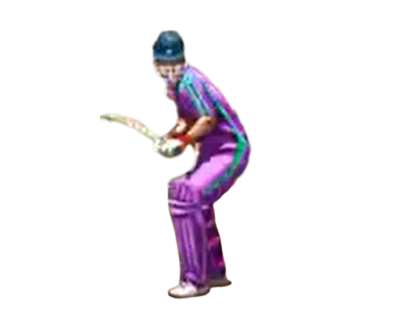
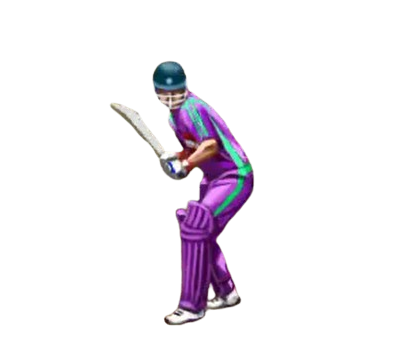
big updates

Changed region(s): [[0.24, 0.0938, 0.66, 0.9375]]

diff --git a/main.py b/main.py
@@ -12,21 +12,28 @@ pygame.init()
 # variables
 runs_scored = 0
 flag = 0
+timing = 3
 
 def check_runs_scored():
-    if BATSMAN.delivery_played:
-        dr = abs(t_ball_released-t_player_input)
-        if dr <= 20:
-            global runs_scored
-            runs_scored = 6
-        elif dr <= 25:
-            runs_scored = 4
-        else:
-            global flag
-            if not flag: 
-                runs_scored = random.choice([1,1,1,2,2,3])
-                flag = 0
-
+    dr = abs(BOWLER.t_ball_released-BATSMAN.t_player_input)
+    if 80 <= dr <= 100:
+        global runs_scored
+        runs_scored = 6
+        BATSMAN.shot = "loft"
+        global timing
+        timing = 3
+    elif 60 <= dr <= 120:
+        runs_scored = 4
+        BATSMAN.shot = "stroke"
+        timing = 2
+    else:
+        BATSMAN.shot = "stroke"
+        timing = 1
+        global flag
+        if not flag: 
+            runs_scored = random.choice([1,1,1,2,2,3])
+            flag = 0
+    
 # game starts when it is True
 game_active = True
 
@@ -36,9 +43,10 @@ clock = pygame.time.Clock()
 pygame.display.set_caption("Cricket 2023")
 
 # adding the sprites
-batsman_group = pygame.sprite.Group()
-batsman_group.add(BATSMAN())
-batsman_group.add(NON_STRIKER())
+batsman = pygame.sprite.GroupSingle()
+batsman.add(BATSMAN())
+non_striker = pygame.sprite.GroupSingle()
+non_striker.add(NON_STRIKER())
 
 umpire = pygame.image.load("graphics/umpire.png")
 umpire = pygame.transform.scale(umpire,(80,215))
@@ -62,20 +70,20 @@ pause = pygame.image.load("graphics/pause.png")
 pause = pygame.transform.scale(pause,(80,30))
 logo = pygame.image.load("graphics/logo.png")
 
-
 # game loop
+dt = 0
 while True:
     # 60 frames per second
     clock.tick(60)
     for event in pygame.event.get():
         if event.type == pygame.QUIT:
-            pygame.quit()
-            exit()
-        if event.type == THROW_BALL:
-                ball.add(BALL())
-                NON_STRIKER.can_move = True              
-        if event.type == pygame.KEYDOWN and not game_active:
-                game_active = True
+             pygame.quit()
+             exit()
+        elif event.type == THROW_BALL:
+             ball.add(BALL())
+             NON_STRIKER.can_move = True                 
+        elif event.type == pygame.KEYDOWN and not game_active:
+             game_active = True   
     
     # checking for game active condition
     if game_active:
@@ -87,8 +95,10 @@ while True:
 
         bowler.draw(screen)
         bowler.update()        
-        batsman_group.draw(screen)
-        batsman_group.update()
+        batsman.draw(screen)
+        non_striker.draw(screen)
+        batsman.update()
+        non_striker.update()
 
         screen.blit(umpire,(screen_width/2-35,340))
         
@@ -96,13 +106,26 @@ while True:
         ball.draw(screen)
         
         # displaying the sccoreboard
-        SCOREBOARD().display_score(screen)
-        check_runs_scored() 
-        if BATSMAN.delivery_played: 
-             display_runs(runs_scored,screen)
-             flag = 1
-        else: flag = 0
-    
+        SCOREBOARD().display_score(screen) 
+        TIMING_BAR().blit(screen)
+
+        if BATSMAN.key_pressed:
+            check_runs_scored()
+            batsman.sprite.updated()
+            BATSMAN.key_pressed = False
+            flag = 1 
+        else:
+            flag = 0
+
+        if BATSMAN.delivery_played:
+             dt+=1 
+             if dt >= 120: 
+                 display_runs(runs_scored,screen)    
+                 TIMING_BAR().update(timing) 
+                            
+        else:
+            dt = 0
+
     else:
         # main menu
         screen.blit(img,(0,0))

diff --git a/sprites/bowler.py b/sprites/bowler.py
@@ -2,14 +2,8 @@ import pygame, random
 from module import *
 from settings import *
 
-# VARIABLES
-t_ball_released = 0
-
-# USER EVENTS
-THROW_BALL = pygame.USEREVENT +1
-
-
 class BOWLER(pygame.sprite.Sprite):
+    t_ball_released = 0
 
     """
         SPRITE DESCRIPTION 
@@ -73,9 +67,7 @@ class BOWLER(pygame.sprite.Sprite):
     def throw_ball(self):
         if int(self.frame_index) == 19:
             pygame.event.post(pygame.event.Event(THROW_BALL))
-            global t_ball_released
-            t_ball_released = pygame.time.get_ticks()
-            print(t_ball_released)
+            BOWLER.t_ball_released = pygame.time.get_ticks()
 
     """
         to update the sprite
@@ -88,30 +80,40 @@ class BOWLER(pygame.sprite.Sprite):
 
 
 class BALL(pygame.sprite.Sprite):
+    direction = "straight"
 
     def __init__(self):
         super().__init__()
         self.image = pygame.image.load("graphics/white-ball.png")
         self.image = pygame.transform.scale(self.image,(8,8))
         self.rect = self.image.get_rect(midbottom=ball_release_pt)
+        BALL.rebound = False
         
-        self.points = [{"dx":(3.5,-0.5),"dy":(2,3),"length":210,"shot_dir":"straight-1"}]
+        self.points = [{"dx":(4.5,-0.5),"dy":(2,3),"length":212,"shot_dir":"straight"}]
         points = [
-            {"dx":(1.5,-0.5),"dy":(1,3),"length":210,"shot_dir":"straight-1"},
-            {"dx":(3.5,0),"dy":(1,3),"length":215,"shot_dir":"right-1"},
-            {"dx":(1.5,0),"dy":(1.5,3),"length":225,"shot_dir":"left-1"}
+            {"dx":(1.5,-0.5),"dy":(1,3),"length":200,"shot_dir":"straight"},
+            {"dx":(3.5,0),"dy":(1,3),"length":215,"shot_dir":"right"},
+            {"dx":(1.5,0),"dy":(1.5,3),"length":225,"shot_dir":"left"}
             ]
         self.d = random.choice(self.points)
+        BALL.direction = self.d["shot_dir"]
     
-    def update(self):
-        
+    def move(self):
+            
         if self.rect.y >= self.d["length"]:
             self.rect.x += self.d["dx"][0]
             self.rect.y -= self.d["dy"][0]
+
+        elif self.rect.y <= 160:
+            self.d = random.choice(self.points)
+            self.kill()  
+    
         else:
             self.rect.x += self.d["dx"][1]
             self.rect.y -= self.d["dy"][1]
 
-        if self.rect.y <= 175:
-            self.d = random.choice(self.points)
-            self.kill()
+    def update(self):
+        if BALL.rebound:
+            self.rect.x += 1.5
+            self.rect.y += 4
+        else: self.move()

diff --git a/sprites/batsman.py b/sprites/batsman.py
@@ -2,12 +2,12 @@ import pygame
 from module import *
 from settings import *
 
-# variables
-t_player_input = 0
-
-
 class BATSMAN(pygame.sprite.Sprite):
+    shot = "stroke"
+    direction = "straight"
     delivery_played = False
+    t_player_input = 0
+    key_pressed = False
 
     """
         SPRITE DESCRIPTION 
@@ -19,7 +19,6 @@ class BATSMAN(pygame.sprite.Sprite):
         # class vaiables
         self.sign = 1        
         self.t = 0
-        self.key_pressed = False
 
         self.animation_state = "start"
         self.update_frames("start")
@@ -44,13 +43,14 @@ class BATSMAN(pygame.sprite.Sprite):
     def player_input(self):
         keys = pygame.key.get_pressed()
         if keys[pygame.K_SPACE] and self.animation_state == "waiting":
-            self.update_frames("straight-loft")
-            self.animation_state = "shot" 
+            BATSMAN.t_player_input = pygame.time.get_ticks()
             self.sign = 1
-            global t_player_input
-            t_player_input = pygame.time.get_ticks()
-            print("batsman", t_player_input)
+            BATSMAN.key_pressed = True
 
+    def updated(self):
+        self.update_frames(BATSMAN.direction + "-" + BATSMAN.shot)
+        self.animation_state = "shot" 
+            
     """
         get frames according to the animation playing
         to ensure correct order of frames 
@@ -86,20 +86,18 @@ class BATSMAN(pygame.sprite.Sprite):
             if self.sign == -1: 
                 self.update_frames("start")
                 self.animation_state = "start"
-                self.key_pressed = False
             
             elif self.frame_index >= len(self.frames)-1: 
                 self.sign = 0
                 self.t += 1
-
+                BATSMAN.delivery_played = True
+            
             # time delay after last frame
             if self.t >= 300: 
                 self.sign = -1
                 self.t = 0
-                BATSMAN.delivery_played = False
-
-            if self.t >= 150:
-                BATSMAN.delivery_played = True
+                BATSMAN.delivery_played = False  
+                BATSMAN.key_pressed = False       
 
             # updating the frame
             self.frame_index += self.sign*0.25
@@ -116,6 +114,7 @@ class BATSMAN(pygame.sprite.Sprite):
     def update(self):
         self.animation()
         self.player_input()
+            
 
 
 class NON_STRIKER(pygame.sprite.Sprite):

diff --git a/module.py b/module.py
@@ -60,6 +60,39 @@ class TEXT():
         target.blit(txt,txt_rect)
 
 
+class TIMING_BAR():
+    timing, sign = 3, 0
+    color = "#32cd32"
+    x,y = screen_width-120,50
+
+    def blit(self,target):
+        rect = pygame.Rect(screen_width-220,50,210,10)
+        pygame.draw.rect(target,"#343434",rect)
+
+        rect = pygame.Rect(TIMING_BAR.x,TIMING_BAR.y,20,10)
+        pygame.draw.rect(target,TIMING_BAR.color,rect)
+        TEXT().blit("EARLY",target,(screen_width-200,65),12,color=(255,255,255))
+        TEXT().blit("PERFECT",target,(screen_width-110,65),12,color=(255,255,255))
+        TEXT().blit("LATE",target,(screen_width-30,65),12,color=(255,255,255))
+
+    def update(self,timing,sign=0):
+        TIMING_BAR.timing = timing
+        TIMING_BAR.sign = sign
+        if TIMING_BAR.timing == 3:
+            TIMING_BAR.color = "#32cd32"
+            TIMING_BAR.x,TIMING_BAR.y = screen_width-120,50
+        elif TIMING_BAR.timing == 2:
+            TIMING_BAR.color = "#ffd700"
+            TIMING_BAR.x,TIMING_BAR.y = screen_width-abs(TIMING_BAR.sign*240-150),50
+        elif TIMING_BAR.timing == 1:
+            TIMING_BAR.color = "#ff8c00"
+            TIMING_BAR.x,TIMING_BAR.y = screen_width-abs(TIMING_BAR.sign*250-180),50
+        else:
+            TIMING_BAR.color = "#b22222"
+            TIMING_BAR.x,TIMING_BAR.y = screen_width-abs(TIMING_BAR.sign*250-210),50
+        
+
+
 class PROGRESS_BAR():
     ds = 0
     loading = True
@@ -105,6 +138,7 @@ def get_frames(player,action,scale=None):
             c+=1
         except: break
     return frames
+
 
 def display_runs(runs,target):
     """

diff --git a/settings.py b/settings.py
@@ -1,6 +1,11 @@
+import pygame
+
 # display
 screen_width, screen_height = 800, 600
 scoreboard_height = 40
+
+# user events
+THROW_BALL = pygame.USEREVENT +1
 
 # cricket pitch
 pitch_top_point = (screen_width/2 + 30, screen_height/2.85)
